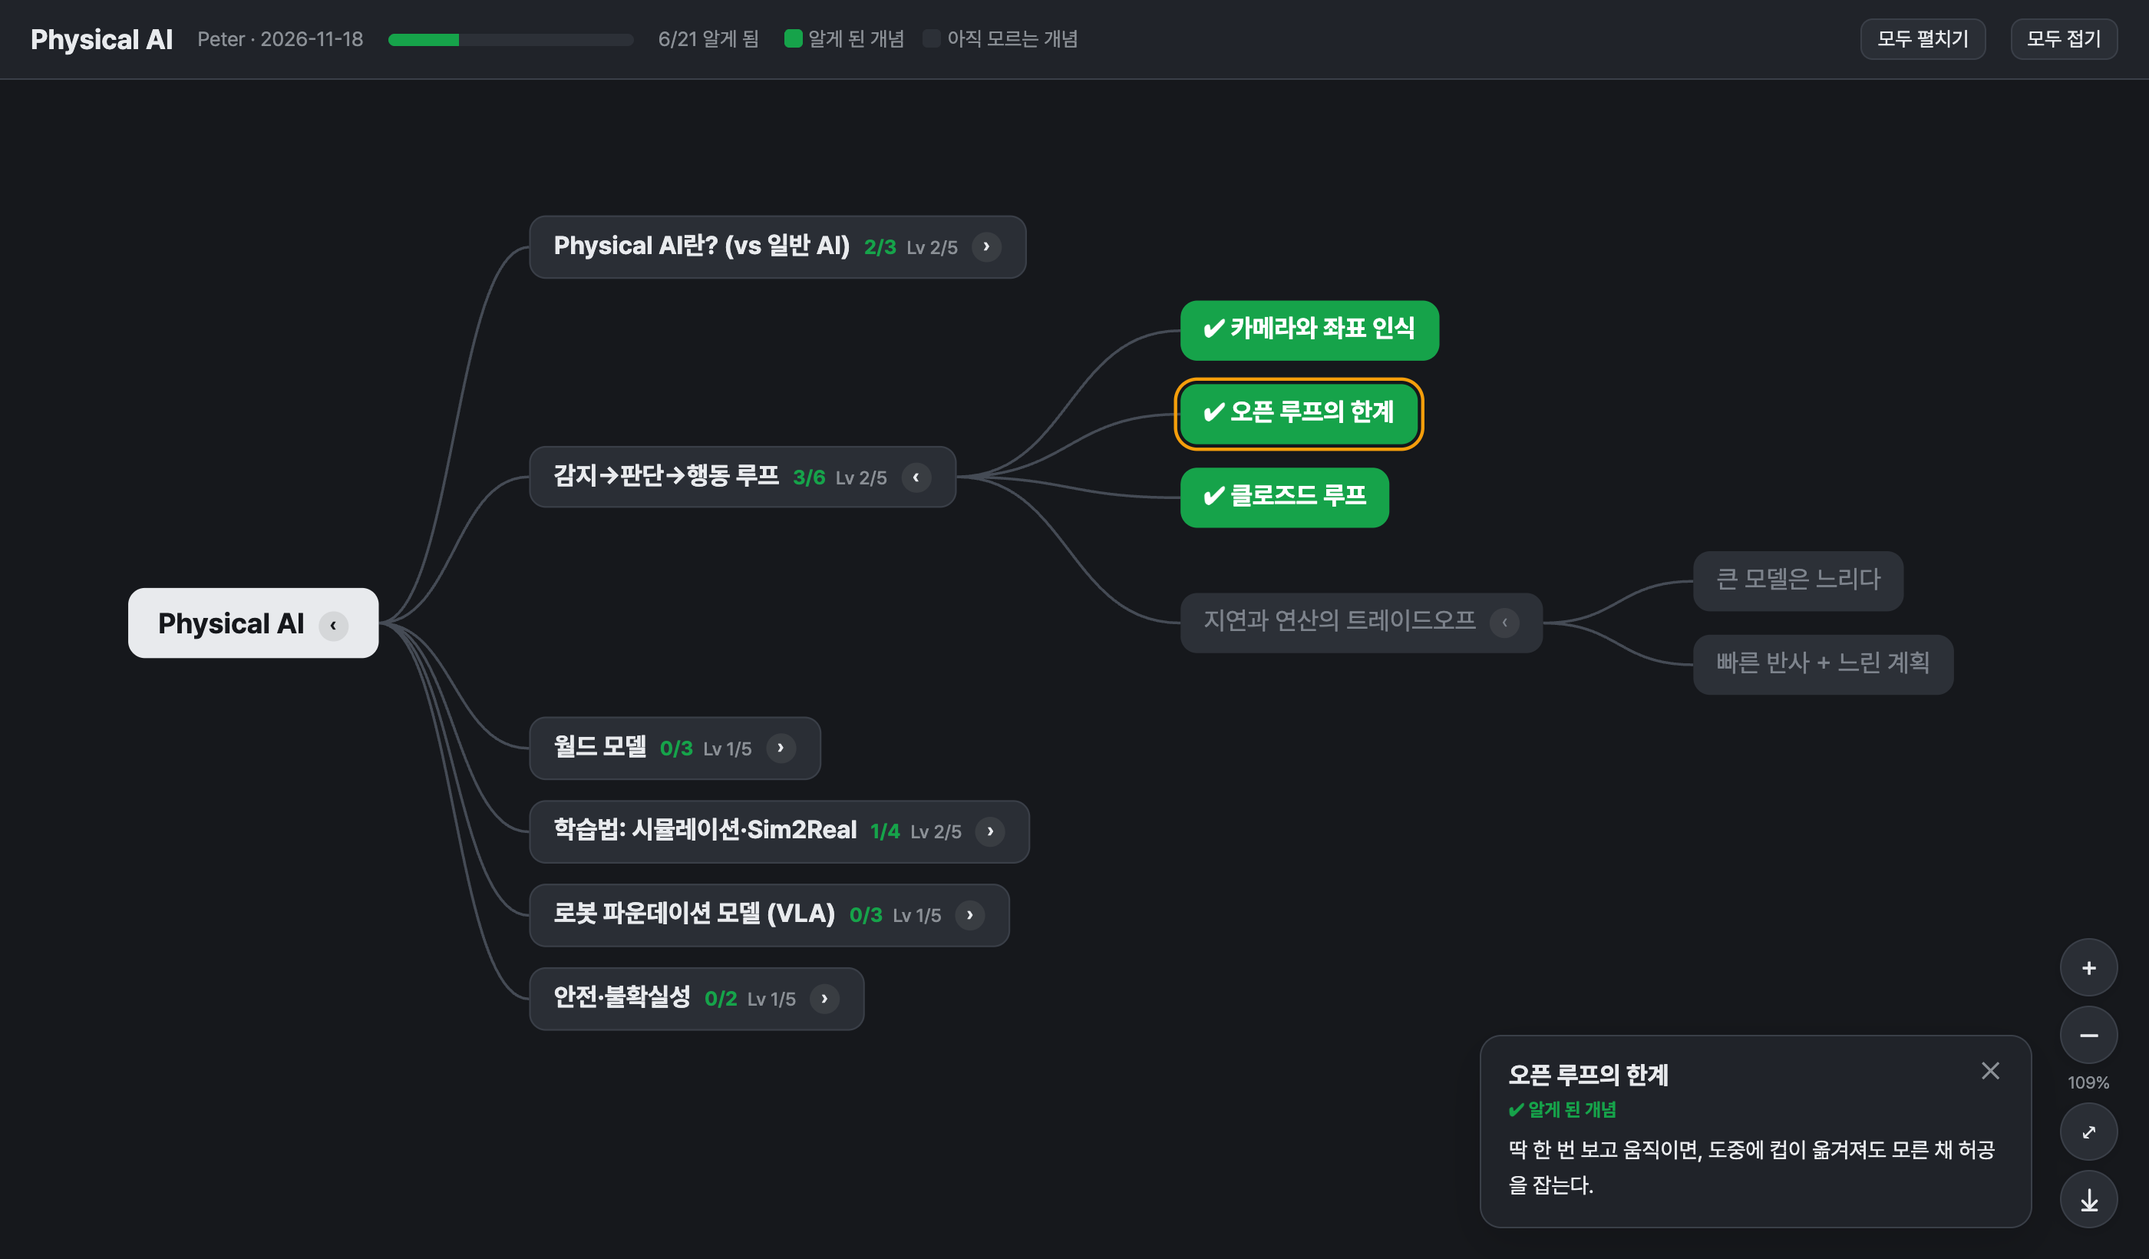
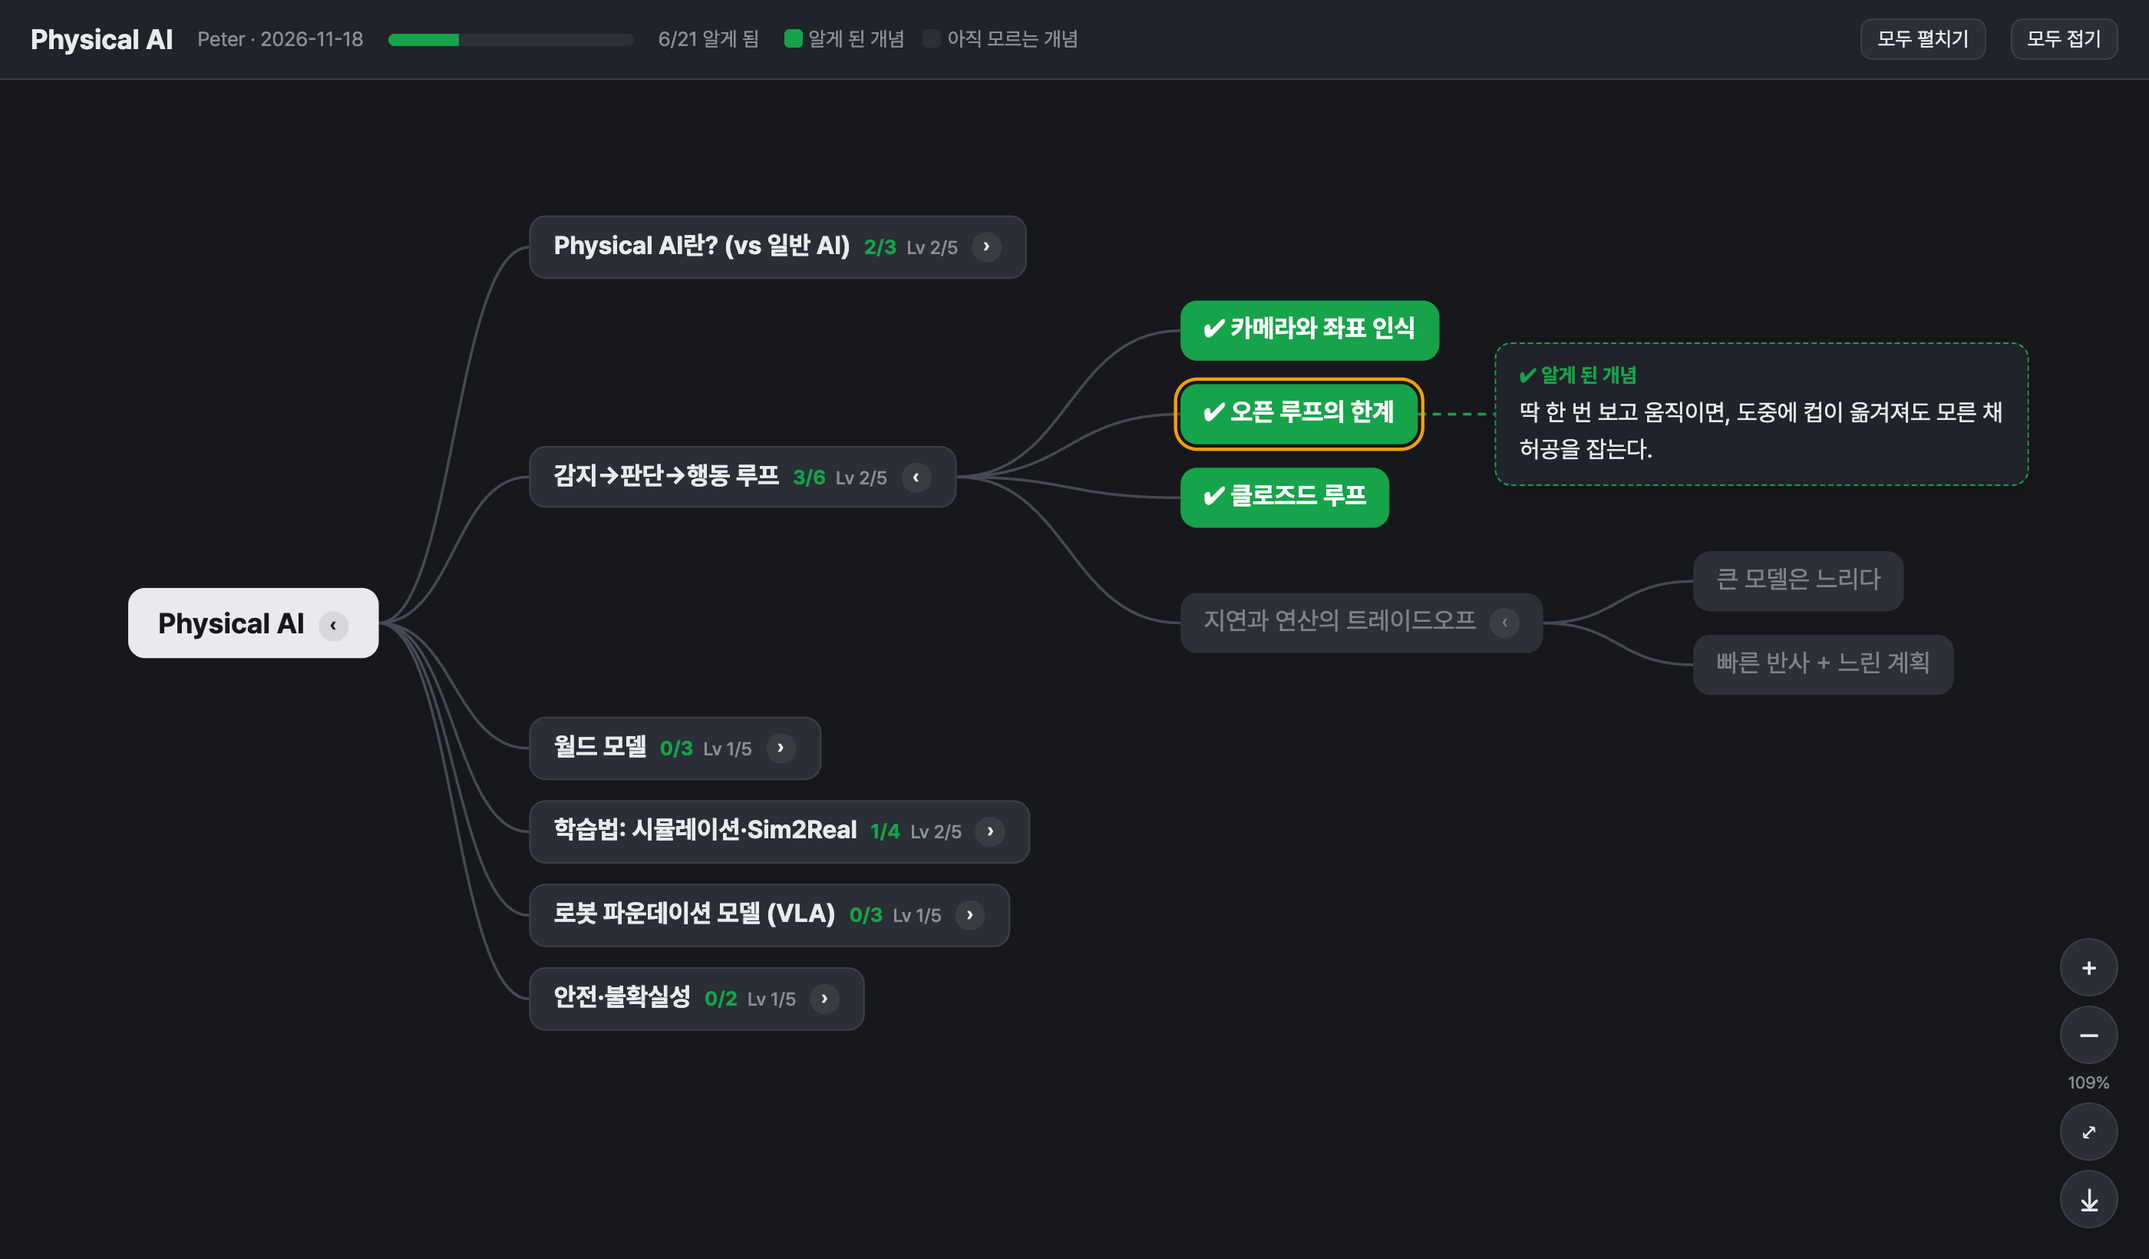
Show concept descriptions as a dashed note attached to the node
Replaces the bottom-right popup card. The note closes on a second click,
another node, or the background, and the view slides if it would be cut off.

Changed region(s): [[0.6836, 0.8396, 0.9321, 0.964], [0.7146, 0.2799, 0.9321, 0.3732]]

diff --git a/examples/PHYSICAL_AI.map.html b/examples/PHYSICAL_AI.map.html
@@ -55,14 +55,15 @@ path{fill:none;stroke:var(--line);stroke-width:1.6;transition:d .45s cubic-bezie
 .n.hidden{display:none}
 .pop{animation:pop .5s cubic-bezier(.34,1.56,.64,1)}
 @keyframes pop{0%{opacity:0;transform:scale(.3) translateX(-24px)}100%{opacity:1;transform:none}}
-#card{position:fixed;right:76px;bottom:20px;width:min(360px,calc(100% - 96px));background:var(--panel);
-  border:1px solid var(--branch-bd);border-radius:14px;padding:16px 18px;box-shadow:0 10px 30px rgba(0,0,0,.15);
-  transform:translateY(20px);opacity:0;pointer-events:none;transition:.25s}
-#card.on{transform:none;opacity:1;pointer-events:auto}
-#card h3{margin:0 0 6px;font-size:16px}
-#card .st{font-size:12px;font-weight:700;margin-bottom:8px}
-#card p{margin:0;font-size:14px;line-height:1.6}
-#card .x{position:absolute;right:10px;top:8px;border:0;background:none;font-size:16px;color:var(--muted)}
+.dn{position:absolute;display:none;width:max-content;max-width:320px;white-space:normal;word-break:keep-all;border-radius:10px;padding:10px 14px;
+  font-size:14px;line-height:1.55;background:var(--panel);color:var(--ink);border:1.5px dashed var(--ok);
+  box-shadow:0 6px 18px rgba(0,0,0,.14);z-index:3;cursor:default}
+.dn.on{display:block}
+.dn.gray{border-color:var(--muted)}
+.dn b{display:block;font-size:12px;color:var(--ok);margin-bottom:3px}
+.dn.gray b{color:var(--muted)}
+#dpath{fill:none;stroke:var(--ok);stroke-width:1.6;stroke-dasharray:5 4;transition:none}
+#dpath.gray{stroke:var(--muted)}
 @media (prefers-reduced-motion: reduce){ .pop{animation:none} .n,path{transition:none} }
 </style>
 </head>
@@ -85,7 +86,6 @@ path{fill:none;stroke:var(--line);stroke-width:1.6;transition:d .45s cubic-bezie
   <button id="zFit" title="화면에 맞추기">⤢</button>
   <button id="png" title="전체 지도 PNG 다운로드">⤓</button>
 </div>
-<div id="card"><button class="x" id="cardX">✕</button><h3 id="cardT"></h3><div class="st" id="cardS"></div><p id="cardD"></p></div>
 <script>
 const DATA = {"meta": {"title": "Physical AI", "learner": "Peter", "updated": "2026-11-18", "tags": "[physical-ai, socratic-learning, learning-map]", "status": "active", "created": "2026-11-18"}, "root": {"label": "Physical AI", "children": [{"label": "Physical AI란? (vs 일반 AI)", "kind": "branch", "children": [{"label": "몸이 있는 AI", "desc": "ChatGPT는 몸이 없고, Physical AI는 로봇이라는 몸으로 현실에서 움직인다.", "learned": true, "kind": "concept", "children": []}, {"label": "물리적 실수의 대가", "desc": "로봇 팔이 판단을 틀리면 컵을 깨거나 떨어뜨린다. \"다시 해줘\"로 되돌릴 수 없다.", "learned": true, "kind": "concept", "children": []}, {"label": "기존 로봇과의 차이", "desc": "정해진 규칙만 하는 로봇 vs 처음 보는 상황에도 일반화하는 로봇", "learned": false, "kind": "concept", "children": []}], "level": 2}, {"label": "감지→판단→행동 루프", "kind": "branch", "children": [{"label": "카메라와 좌표 인식", "desc": "좌표는 누가 넣어주지 않는다. 로봇이 카메라로 보고 자기 위치 기준으로 알아낸다.", "learned": true, "kind": "concept", "children": []}, {"label": "오픈 루프의 한계", "desc": "딱 한 번 보고 움직이면, 도중에 컵이 옮겨져도 모른 채 허공을 잡는다.", "learned": true, "kind": "concept", "children": []}, {"label": "클로즈드 루프", "desc": "움직이는 동안에도 계속 보고 다시 계산해야 한다.", "learned": true, "kind": "concept", "children": []}, {"label": "지연과 연산의 트레이드오프", "desc": "", "learned": false, "kind": "concept", "children": [{"label": "큰 모델은 느리다", "desc": "", "learned": false, "kind": "concept", "children": []}, {"label": "빠른 반사 + 느린 계획", "desc": "", "learned": false, "kind": "concept", "children": []}]}], "level": 2}, {"label": "월드 모델", "kind": "branch", "children": [{"label": "내부 시뮬레이터", "desc": "", "learned": false, "kind": "concept", "children": []}, {"label": "행동 전에 결과 예측", "desc": "", "learned": false, "kind": "concept", "children": []}, {"label": "필수인가?", "desc": "", "learned": false, "kind": "concept", "children": []}], "level": 1}, {"label": "학습법: 시뮬레이션·Sim2Real", "kind": "branch", "children": [{"label": "시뮬레이션의 한계", "desc": "시뮬레이션에서 99% 성공해도 현실에서 떨어진다. 가정한 환경과 실제 환경이 다르기 때문.", "learned": true, "kind": "concept", "children": []}, {"label": "무엇이 다른가 (마찰·무게·조명·센서 노이즈)", "desc": "", "learned": false, "kind": "concept", "children": []}, {"label": "차이를 줄이는 방법", "desc": "", "learned": false, "kind": "concept", "children": []}, {"label": "데이터 수집 병목", "desc": "", "learned": false, "kind": "concept", "children": []}], "level": 2}, {"label": "로봇 파운데이션 모델 (VLA)", "kind": "branch", "children": [{"label": "입력: 카메라 영상 + 말 지시", "desc": "", "learned": false, "kind": "concept", "children": []}, {"label": "출력: 팔 동작", "desc": "", "learned": false, "kind": "concept", "children": []}, {"label": "대표 모델 (π0, RT-2)", "desc": "", "learned": false, "kind": "concept", "children": []}], "level": 1}, {"label": "안전·불확실성", "kind": "branch", "children": [{"label": "되돌릴 수 없는 실수 막기", "desc": "", "learned": false, "kind": "concept", "children": []}, {"label": "모를 때 멈추기 (불확실성 추정)", "desc": "", "learned": false, "kind": "concept", "children": []}], "level": 1}], "kind": "root"}};
 const COL_GAP = 90, ROW = 50, PAD = 40;
@@ -152,6 +152,7 @@ function layout(popIds = new Set()){
   });
   canvas.style.width = (maxX + PAD * 2) + 'px';
   canvas.style.height = (y + PAD) + 'px';
+  placeDesc(false);
 }
 
 function onNode(n){
@@ -160,19 +161,46 @@ function onNode(n){
     const pop = new Set(); if (n.open) n.children.forEach(c => pop.add(c.id));
     layout(pop);
   }
-  if (n.kind === 'concept') showCard(n); else hideCard();
+  // leaves show their description; nodes with children just expand, so the note never covers them
+  if (n.kind === 'concept' && !n.children.length) showDesc(n); else hideDesc();
 }
-function showCard(n){
-  if (selected) selected.el.classList.remove('sel');
+// description = a temporary dashed node attached to the right of the clicked concept
+const dn = document.createElement('div'); dn.className = 'dn'; canvas.appendChild(dn);
+dn.onclick = e => e.stopPropagation();
+dn.onpointerdown = e => e.stopPropagation();
+const dpath = document.createElementNS('http://www.w3.org/2000/svg', 'path'); dpath.id = 'dpath'; svg.appendChild(dpath);
+function placeDesc(pop){
+  const n = selected; if (!n) return;
+  if (n.el.classList.contains('hidden')){ hideDesc(); return; }
+  const gap = 46, x1 = n.x + n.el.offsetWidth, x2 = x1 + gap;
+  dn.style.left = x2 + 'px'; dn.style.top = (n.y - dn.offsetHeight / 2) + 'px';
+  dpath.setAttribute('d', `M${x1},${n.y} L${x2},${n.y}`);
+  if (pop){ dn.classList.remove('pop'); void dn.offsetWidth; dn.classList.add('pop'); keepInView(); }
+}
+function keepInView(){
+  // slide the view just enough that the note isn't cut off by the window edge
+  const st = document.getElementById('stage').getBoundingClientRect();
+  const right = view.x + (parseFloat(dn.style.left) + dn.offsetWidth) * view.k, over = right - (st.width - 70);
+  if (over > 0){ canvas.style.transition = 'transform .35s cubic-bezier(.2,.8,.2,1)'; view.x -= over; apply();
+    setTimeout(() => { canvas.style.transition = ''; }, 400); }
+}
+function showDesc(n){
+  if (selected === n){ hideDesc(); return; }          // click again to close
+  hideDesc();
+  if (!n.desc && !n.learned) return;                  // nothing to say about an untouched gray concept
   selected = n; n.el.classList.add('sel');
-  document.getElementById('cardT').textContent = n.label;
-  const s = document.getElementById('cardS');
-  s.textContent = n.learned ? '✔ 알게 된 개념' : '아직 모르는 개념'; s.style.color = n.learned ? 'var(--ok)' : 'var(--muted)';
-  document.getElementById('cardD').textContent = n.desc || (n.learned ? '(설명 없음)' : '아직 튜터링에서 다루지 않았어요.');
-  document.getElementById('card').classList.add('on');
+  const gray = !n.learned;
+  dn.classList.toggle('gray', gray); dpath.classList.toggle('gray', gray);
+  dn.innerHTML = `<b>${gray ? '아직 모르는 개념' : '✔ 알게 된 개념'}</b>`;
+  dn.appendChild(document.createTextNode(n.desc || '(설명 없음)'));
+  dn.classList.add('on'); dpath.style.display = '';
+  placeDesc(true);
 }
-function hideCard(){ document.getElementById('card').classList.remove('on'); if (selected) selected.el.classList.remove('sel'); selected = null; }
-document.getElementById('cardX').onclick = hideCard;
+function hideDesc(){
+  dn.classList.remove('on'); dpath.style.display = 'none';
+  if (selected) selected.el.classList.remove('sel'); selected = null;
+}
+hideDesc();
 
 function setAll(v){ (function w(n){ if (n.children.length) n.open = v || n.depth === 0; n.children.forEach(w); })(DATA.root); layout(); }
 document.getElementById('openAll').onclick = () => setAll(true);
@@ -236,7 +264,7 @@ stage.addEventListener('pointermove', e => {
 function up(e){
   if (!ptrs.has(e.pointerId)) return;
   ptrs.delete(e.pointerId); pinch0 = null;
-  if (!ptrs.size){ stage.classList.remove('drag'); if (moved < 4) hideCard(); }
+  if (!ptrs.size){ stage.classList.remove('drag'); if (moved < 4) hideDesc(); }
 }
 stage.addEventListener('pointerup', up); stage.addEventListener('pointercancel', up);
 document.getElementById('zIn').onclick = () => zoomCenter(1.25);

diff --git a/assets/template.html b/assets/template.html
@@ -55,14 +55,15 @@ path{fill:none;stroke:var(--line);stroke-width:1.6;transition:d .45s cubic-bezie
 .n.hidden{display:none}
 .pop{animation:pop .5s cubic-bezier(.34,1.56,.64,1)}
 @keyframes pop{0%{opacity:0;transform:scale(.3) translateX(-24px)}100%{opacity:1;transform:none}}
-#card{position:fixed;right:76px;bottom:20px;width:min(360px,calc(100% - 96px));background:var(--panel);
-  border:1px solid var(--branch-bd);border-radius:14px;padding:16px 18px;box-shadow:0 10px 30px rgba(0,0,0,.15);
-  transform:translateY(20px);opacity:0;pointer-events:none;transition:.25s}
-#card.on{transform:none;opacity:1;pointer-events:auto}
-#card h3{margin:0 0 6px;font-size:16px}
-#card .st{font-size:12px;font-weight:700;margin-bottom:8px}
-#card p{margin:0;font-size:14px;line-height:1.6}
-#card .x{position:absolute;right:10px;top:8px;border:0;background:none;font-size:16px;color:var(--muted)}
+.dn{position:absolute;display:none;width:max-content;max-width:320px;white-space:normal;word-break:keep-all;border-radius:10px;padding:10px 14px;
+  font-size:14px;line-height:1.55;background:var(--panel);color:var(--ink);border:1.5px dashed var(--ok);
+  box-shadow:0 6px 18px rgba(0,0,0,.14);z-index:3;cursor:default}
+.dn.on{display:block}
+.dn.gray{border-color:var(--muted)}
+.dn b{display:block;font-size:12px;color:var(--ok);margin-bottom:3px}
+.dn.gray b{color:var(--muted)}
+#dpath{fill:none;stroke:var(--ok);stroke-width:1.6;stroke-dasharray:5 4;transition:none}
+#dpath.gray{stroke:var(--muted)}
 @media (prefers-reduced-motion: reduce){ .pop{animation:none} .n,path{transition:none} }
 </style>
 </head>
@@ -85,7 +86,6 @@ path{fill:none;stroke:var(--line);stroke-width:1.6;transition:d .45s cubic-bezie
   <button id="zFit" title="화면에 맞추기">⤢</button>
   <button id="png" title="전체 지도 PNG 다운로드">⤓</button>
 </div>
-<div id="card"><button class="x" id="cardX">✕</button><h3 id="cardT"></h3><div class="st" id="cardS"></div><p id="cardD"></p></div>
 <script>
 const DATA = __DATA__;
 const COL_GAP = 90, ROW = 50, PAD = 40;
@@ -152,6 +152,7 @@ function layout(popIds = new Set()){
   });
   canvas.style.width = (maxX + PAD * 2) + 'px';
   canvas.style.height = (y + PAD) + 'px';
+  placeDesc(false);
 }
 
 function onNode(n){
@@ -160,19 +161,46 @@ function onNode(n){
     const pop = new Set(); if (n.open) n.children.forEach(c => pop.add(c.id));
     layout(pop);
   }
-  if (n.kind === 'concept') showCard(n); else hideCard();
+  // leaves show their description; nodes with children just expand, so the note never covers them
+  if (n.kind === 'concept' && !n.children.length) showDesc(n); else hideDesc();
 }
-function showCard(n){
-  if (selected) selected.el.classList.remove('sel');
+// description = a temporary dashed node attached to the right of the clicked concept
+const dn = document.createElement('div'); dn.className = 'dn'; canvas.appendChild(dn);
+dn.onclick = e => e.stopPropagation();
+dn.onpointerdown = e => e.stopPropagation();
+const dpath = document.createElementNS('http://www.w3.org/2000/svg', 'path'); dpath.id = 'dpath'; svg.appendChild(dpath);
+function placeDesc(pop){
+  const n = selected; if (!n) return;
+  if (n.el.classList.contains('hidden')){ hideDesc(); return; }
+  const gap = 46, x1 = n.x + n.el.offsetWidth, x2 = x1 + gap;
+  dn.style.left = x2 + 'px'; dn.style.top = (n.y - dn.offsetHeight / 2) + 'px';
+  dpath.setAttribute('d', `M${x1},${n.y} L${x2},${n.y}`);
+  if (pop){ dn.classList.remove('pop'); void dn.offsetWidth; dn.classList.add('pop'); keepInView(); }
+}
+function keepInView(){
+  // slide the view just enough that the note isn't cut off by the window edge
+  const st = document.getElementById('stage').getBoundingClientRect();
+  const right = view.x + (parseFloat(dn.style.left) + dn.offsetWidth) * view.k, over = right - (st.width - 70);
+  if (over > 0){ canvas.style.transition = 'transform .35s cubic-bezier(.2,.8,.2,1)'; view.x -= over; apply();
+    setTimeout(() => { canvas.style.transition = ''; }, 400); }
+}
+function showDesc(n){
+  if (selected === n){ hideDesc(); return; }          // click again to close
+  hideDesc();
+  if (!n.desc && !n.learned) return;                  // nothing to say about an untouched gray concept
   selected = n; n.el.classList.add('sel');
-  document.getElementById('cardT').textContent = n.label;
-  const s = document.getElementById('cardS');
-  s.textContent = n.learned ? '✔ 알게 된 개념' : '아직 모르는 개념'; s.style.color = n.learned ? 'var(--ok)' : 'var(--muted)';
-  document.getElementById('cardD').textContent = n.desc || (n.learned ? '(설명 없음)' : '아직 튜터링에서 다루지 않았어요.');
-  document.getElementById('card').classList.add('on');
+  const gray = !n.learned;
+  dn.classList.toggle('gray', gray); dpath.classList.toggle('gray', gray);
+  dn.innerHTML = `<b>${gray ? '아직 모르는 개념' : '✔ 알게 된 개념'}</b>`;
+  dn.appendChild(document.createTextNode(n.desc || '(설명 없음)'));
+  dn.classList.add('on'); dpath.style.display = '';
+  placeDesc(true);
 }
-function hideCard(){ document.getElementById('card').classList.remove('on'); if (selected) selected.el.classList.remove('sel'); selected = null; }
-document.getElementById('cardX').onclick = hideCard;
+function hideDesc(){
+  dn.classList.remove('on'); dpath.style.display = 'none';
+  if (selected) selected.el.classList.remove('sel'); selected = null;
+}
+hideDesc();
 
 function setAll(v){ (function w(n){ if (n.children.length) n.open = v || n.depth === 0; n.children.forEach(w); })(DATA.root); layout(); }
 document.getElementById('openAll').onclick = () => setAll(true);
@@ -236,7 +264,7 @@ stage.addEventListener('pointermove', e => {
 function up(e){
   if (!ptrs.has(e.pointerId)) return;
   ptrs.delete(e.pointerId); pinch0 = null;
-  if (!ptrs.size){ stage.classList.remove('drag'); if (moved < 4) hideCard(); }
+  if (!ptrs.size){ stage.classList.remove('drag'); if (moved < 4) hideDesc(); }
 }
 stage.addEventListener('pointerup', up); stage.addEventListener('pointercancel', up);
 document.getElementById('zIn').onclick = () => zoomCenter(1.25);

diff --git a/SKILL.md b/SKILL.md
@@ -5,7 +5,7 @@ description: Use when the user wants a 역량지도, skill map, competency map, 
 
 # Learning Map
 
-One `.map.md` file is the source of truth for a learner's map of a topic. `scripts/render.py` turns it into one offline `.html` mindmap: click a node and its sub-concepts pop out, click a concept to see its description. Learned = green, not yet known = gray.
+One `.map.md` file is the source of truth for a learner's map of a topic. `scripts/render.py` turns it into one offline `.html` mindmap: click a node and its sub-concepts pop out, click a concept and a dashed note with its description pops out to its right. Learned = green, not yet known = gray.
 
 In the HTML: the map opens centered and sized to the window. Wheel or trackpad pinch zooms toward the cursor, drag the background to pan, bottom-right buttons zoom in/out, fit to screen (keys `+` `-` `0`), and ⤓ downloads the whole map, every node expanded, as a 2x PNG.
 

diff --git a/README.md b/README.md
@@ -36,7 +36,7 @@ examples/PHYSICAL_AI.map.html  (6/21 learned, 6 branches)
 | ------- | ----------- |
 | `Root` | The topic you're learning |
 | `Branch  3/6  Lv 2/5` | One subskill: concepts learned / total, and its socratic-tutor level |
-| `✔ Concept` (green) | Something you showed you know. Click it to see a one-line description in your own words |
+| `✔ Concept` (green) | Something you showed you know. Click it and a dashed note pops out to its right with a one-line description in your own words. Click again, or anywhere else, to close |
 | `Concept` (gray) | Something you don't know yet |
 | `›` / `‹` | Click to expand or collapse sub-concepts, to any depth |
 | Progress bar | Learned concepts across the whole map |
